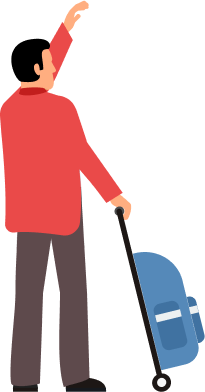
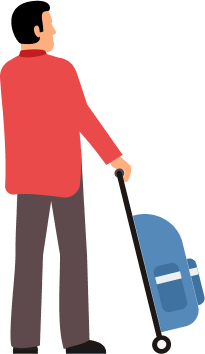
анимация

diff --git a/source/scss/animation.scss b/source/scss/animation.scss
@@ -23,8 +23,8 @@
 
     &__sun {
       position: relative;
-      left: 80px;
-      animation: sun 6s ease-in-out infinite;
+      left: 5%;
+      animation: clouds 5s ease-in-out infinite;
     }
 
     &__elements {
@@ -75,30 +75,53 @@
       top: 455px;
     }
 
+    &__girl--hand {
+      position: absolute;
+      left: 209px;
+      top: 568px;
+      animation: girl_hand 12s ease-in-out infinite;
+      animation-delay: 1s;
+    }
+
     &__suitcases {
       position: absolute;
       left: 172px;
       top: 628px;
+      z-index: 2;
     }
 
     &__boy {
       position: absolute;
       left: 288px;
-      top: 330px;
+      top: 369px;
+      z-index: 1;
+    }
+
+    &__boy--hand {
+      position: absolute;
+      left: 288px;
+      top: 331px;
+      transform-origin: 10px 119px;
+      transform: rotateZ(150deg);
+      animation: boy_hand 12s ease-in-out infinite;
+      animation-delay: 4s;
     }
 
     &__taxi {
       position: absolute;
       top: 400px;
       right: -887px;
-      animation: taxi 5s ease-in-out infinite;
+      animation: taxi 11s ease-in-out infinite;
+      animation-delay: 3s;
     }
 
     &__message--girl {
       position: absolute;
       left: 92px;
       top: 350px;
-      display: none;
+      opacity: 0;
+      animation: message_girl 12s ease-in-out infinite;
+      animation-delay: 1s;
     }
 
     &__message--boy {
@@ -106,19 +129,41 @@
       left: 278px;
       top: 280px;
       z-index: 3;
-      display: none;
+      opacity: 0;
+      animation: message_boy 12s ease-in-out infinite;
+      animation-delay: 4s;
+    }
+
+    &__message--boy2 {
+      position: absolute;
+      left: 278px;
+      top: 280px;
+      z-index: 3;
+      opacity: 0;
+      animation: message_boy2 11s ease-in-out infinite;
+      animation-delay: 10s;
+    }
+
+    &__message--taxi {
+      position: absolute;
+      left: 950px;
+      top: 345px;
+      z-index: 3;
+      opacity: 0;
+      animation: message 9s ease-in-out infinite;
+      animation-delay: 9s;
     }
 }
 
-@keyframes sun {
+@keyframes clouds {
   0% {
-    left: 80px;
+    left: 5%;
   }
   50% {
-    left: 100px;
+    left: 10%
   }
   100% {
-    left: 80px;
+    left: 5%;
   }
 }
 
@@ -162,10 +207,114 @@
   0% {
     right: -887px;
   }
-  50% {
-    right: 500px;
+  20% {
+    right: -380px;
+  }
+  60% {
+    right: -40px;
+  }
+  75% {
+    right: -40px;
   }
   100% {
     right: 3000px;
+  }
+}
+
+@keyframes girl_hand {
+  0% {
+    transform-origin: 10px 10px;
+    transform: rotateZ(0);
+  }
+  10% {
+    transform-origin: 10px 10px;
+    transform: rotateZ(-50deg);
+  }
+  30% {
+    transform-origin: 10px 10px;
+    transform: rotateZ(0);
+  }
+  100% {
+    transform-origin: 10px 10px;
+    transform: rotateZ(0);
+  }
+}
+
+@keyframes message_girl {
+  0% {
+    opacity: 0;
+  }
+  10% {
+    opacity: 1;
+  }
+  30% {
+    opacity: 0;
+  }
+  100% {
+    opacity: 0;
+  }
+}
+
+@keyframes message_boy {
+  0% {
+    opacity: 0;
+  }
+  20% {
+    opacity: 1;
+  }
+  25% {
+    opacity: 0;
+  }
+  100% {
+    opacity: 0;
+  }
+}
+
+@keyframes boy_hand {
+  0% {
+    transform-origin: 10px 119px;
+    transform: rotateZ(150deg);
+  }
+  10% {
+    transform-origin: 10px 119px;
+    transform: rotateZ(2deg);
+  }
+  30% {
+    transform-origin: 10px 119px;
+    transform: rotateZ(150deg);
+  }
+  100% {
+    transform-origin: 10px 119px;
+    transform: rotateZ(150deg);
+  }
+}
+
+@keyframes message {
+  0% {
+    opacity: 0;
+  }
+  20% {
+    opacity: 1;
+  }
+  22% {
+    opacity: 0;
+  }
+  100% {
+    opacity: 0;
+  }
+}
+
+@keyframes message_boy2 {
+  0% {
+    opacity: 0;
+  }
+  20% {
+    opacity: 1;
+  }
+  21% {
+    opacity: 0;
+  }
+  100% {
+    opacity: 0;
   }
 }

diff --git a/source/animation.html b/source/animation.html
@@ -66,14 +66,26 @@
               <div class="animation__girl">
                 <img src="./img/girl.png" alt="girl">
               </div>
+              <div class="animation__girl--hand">
+                <img src="./img/hand_girl.png" alt="hand_girl">
+              </div>
+              <div class="animation__boy">
+                <img src="./img/boy.png" alt="boy">
+              </div>
+              <div class="animation__boy--hand">
+                <img src="./img/hand_boy.png" alt="hand_boy">
+              </div>
               <div class="animation__suitcases">
                 <img src="./img/Suitcases.png" alt="Suitcases">
               </div>
               <div class="animation__message--boy">
                 <img src="./img/Message_boy.png" alt="Message_boy">
               </div>
-              <div class="animation__boy">
-                <img src="./img/boy.png" alt="boy">
+              <div class="animation__message--boy2">
+                <img src="./img/Message_boy2.png" alt="Message_boy">
+              </div>
+              <div class="animation__message--taxi">
+                <img src="./img/Message.png" alt="Message">
               </div>
             </div>
           </section>

diff --git a/source/scss/_base.scss b/source/scss/_base.scss
@@ -34,7 +34,6 @@ a {
 
 img {
   display: block;
-  max-width: 100%;
 }
 
 ul {
